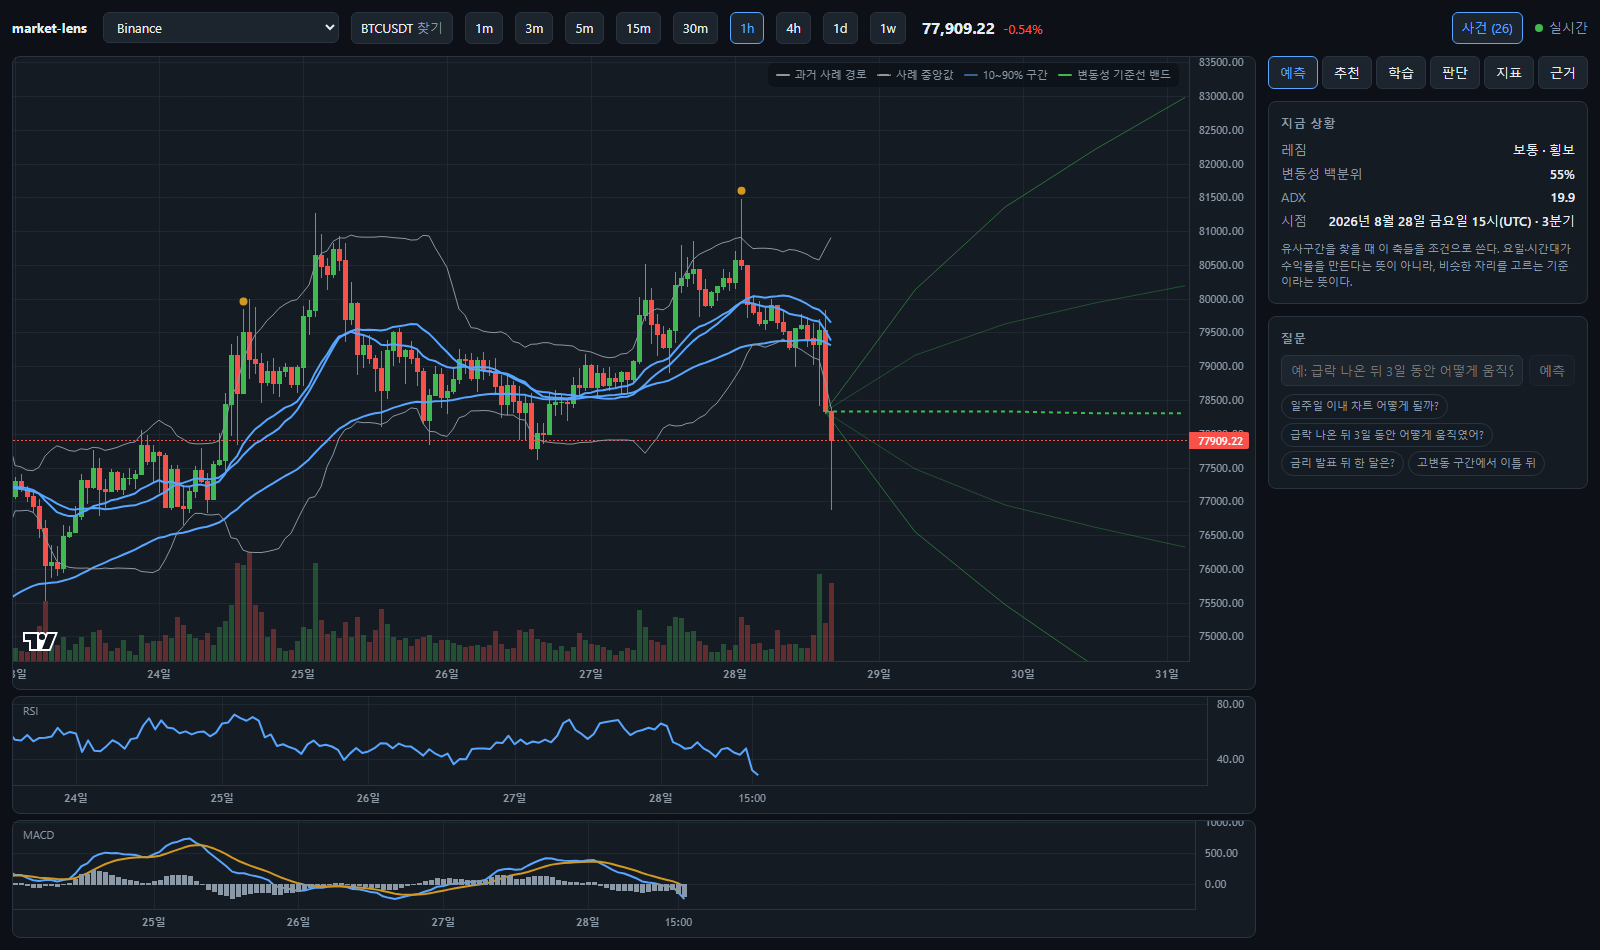
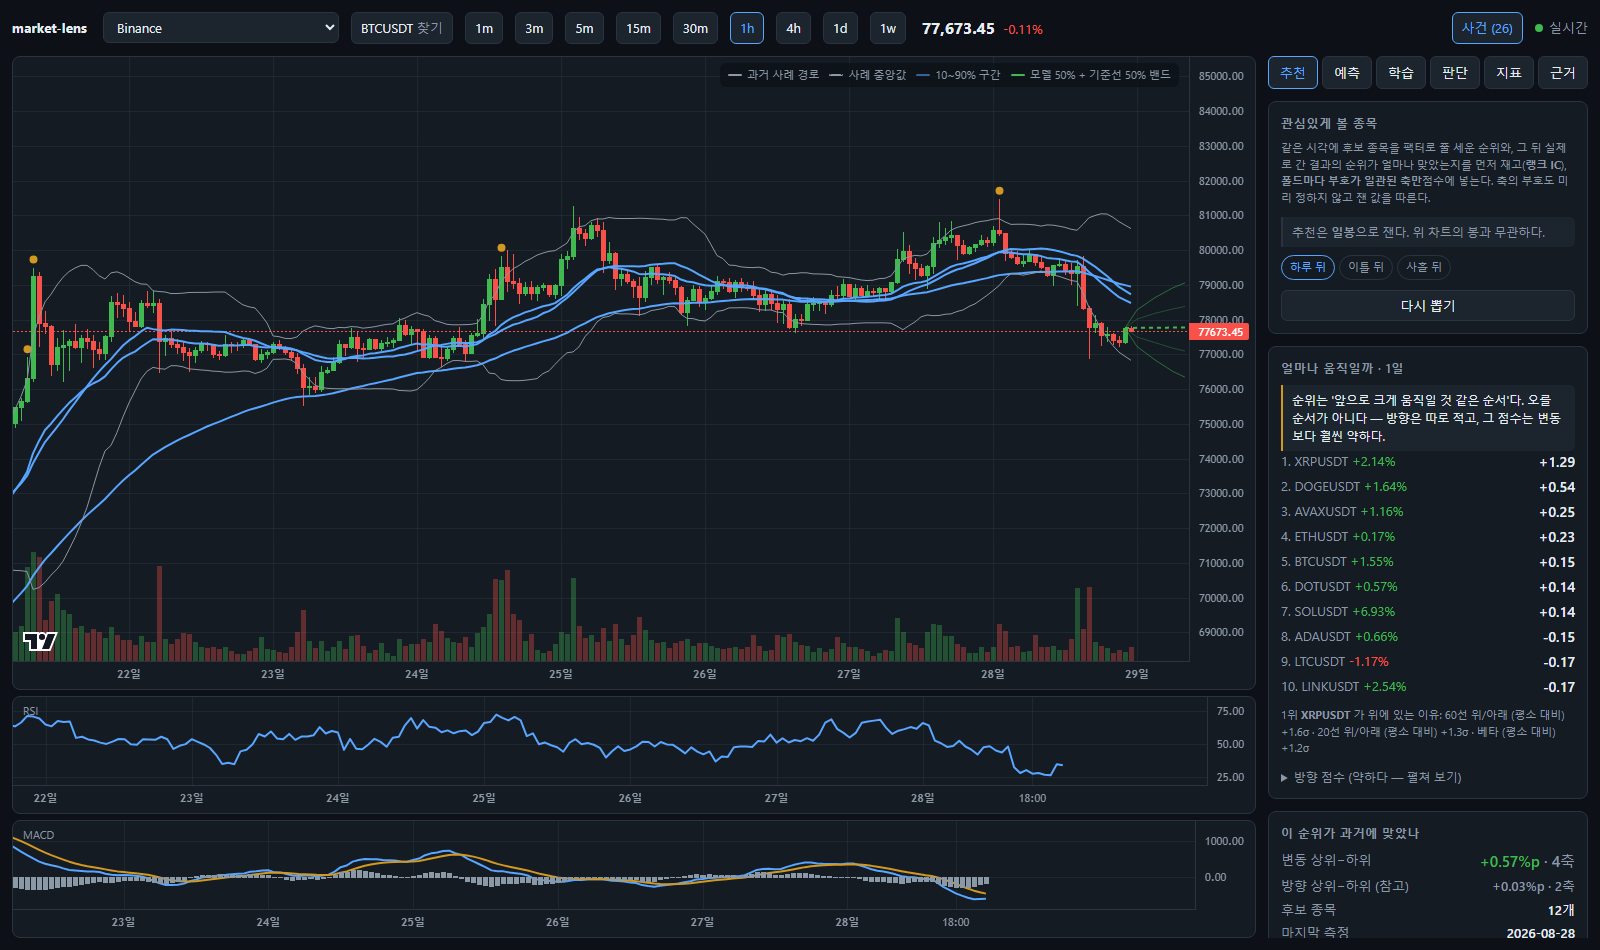
feat: 화면을 '얼마나 움직일까' 중심으로 다시 짠다
27,664판을 채점한 결과가 근거다 — 80% 밴드 82.2%, 방향 55.0%. 잘하는 것을
앞에 두고 못하는 것을 뒤에 둔다.

- 첫 탭이 추천(변동 순위)이고 기본값이다
- ForecastCard 와 학습 예측이 '예상 변동 폭'과 '밴드 실제 적중'부터 보여준다
- 방향은 '참고' 블록으로 내리고 흐리게 둔다. 지우지는 않는다 — 숨기는 것과
  작게 두는 것은 다르고, 쓸지 말지는 보는 사람이 정한다
- 추천 목록 행은 변동 점수 하나만. 방향은 접어 둔다
- 판단 탭도 폭이 먼저 오고 방향 투표가 뒤로 간다
- 각 문구에 잰 숫자를 같이 적는다

diff --git a/web/src/components/ScreenPanel.tsx b/web/src/components/ScreenPanel.tsx
@@ -102,7 +102,7 @@ export function ScreenPanel({ provider, providers, onPick, onProvider }: Props) 
 
       {result?.available && (
         <section className="card">
-          <h2>순위 · {horizon}일</h2>
+          <h2>얼마나 움직일까 · {horizon}일</h2>
           {/* 이 문장이 이 화면에서 제일 중요하다. 순위를 '오를 순서'로 읽으면 해롭다. */}
           <p className="note warn" style={{ marginTop: 0 }}>{result.note}</p>
           <div className="rows">
@@ -127,13 +127,9 @@ export function ScreenPanel({ provider, providers, onPick, onProvider }: Props) 
                     </span>
                   )}
                 </span>
-                <b>
-                  변동 {signed(item.move)}
-                  <span style={{ color: "var(--text-dim)" }}>
-                    {" "}
-                    · 방향 {signed(item.direction)}
-                  </span>
-                </b>
+                {/* 방향 점수는 여기 안 쓴다. 한 줄에 나란히 두면 같은 무게로 읽히는데,
+                    실제로는 변동이 +0.94%p 를 가르고 방향은 +0.03~0.65%p 다. */}
+                <b style={{ fontSize: 14 }}>{signed(item.move)}</b>
               </div>
             ))}
           </div>
@@ -145,6 +141,22 @@ export function ScreenPanel({ provider, providers, onPick, onProvider }: Props) 
                 .join(" · ")}
             </p>
           )}
+
+          {/* 방향은 접어 둔다. 지우지는 않는다 — 숨기는 것과 작게 두는 것은 다르고,
+              쓸지 말지는 보는 사람이 정한다. */}
+          <details style={{ marginTop: 8 }}>
+            <summary style={{ cursor: "pointer", color: "var(--text-dim)", fontSize: 12 }}>
+              방향 점수 (약하다 — 펼쳐 보기)
+            </summary>
+            <div className="rows" style={{ marginTop: 6, color: "var(--text-dim)" }}>
+              {result.items.map((item) => (
+                <div className="row" key={`dir-${item.symbol}`}>
+                  <span>{item.symbol}</span>
+                  <b>{signed(item.direction)}</b>
+                </div>
+              ))}
+            </div>
+          </details>
         </section>
       )}
 
@@ -152,28 +164,37 @@ export function ScreenPanel({ provider, providers, onPick, onProvider }: Props) 
         <section className="card">
           <h2>이 순위가 과거에 맞았나</h2>
           <div className="rows">
-            {(["move", "direction"] as const).map((kind) => {
-              const q = quality[kind];
-              const gap = q.topMinusBottomPct;
-              return (
-                <div className="row" key={kind}>
-                  <span>{kind === "move" ? "변동 상위−하위" : "방향 상위−하위"}</span>
-                  <b
-                    style={{
-                      color:
-                        gap === null || gap === undefined
-                          ? "var(--text-dim)"
-                          : gap > 0
-                            ? "var(--up)"
-                            : "var(--down)",
-                    }}
-                  >
-                    {gap === null || gap === undefined ? "—" : `${signed(gap)}%p`}
-                    <span style={{ color: "var(--text-dim)" }}> · {q.factors}축</span>
-                  </b>
-                </div>
-              );
-            })}
+            <div className="row">
+              <span>변동 상위−하위</span>
+              <b
+                style={{
+                  fontSize: 15,
+                  color:
+                    quality.move.topMinusBottomPct === null
+                    || quality.move.topMinusBottomPct === undefined
+                      ? "var(--text-dim)"
+                      : quality.move.topMinusBottomPct > 0
+                        ? "var(--up)"
+                        : "var(--down)",
+                }}
+              >
+                {quality.move.topMinusBottomPct === null
+                || quality.move.topMinusBottomPct === undefined
+                  ? "—"
+                  : `${signed(quality.move.topMinusBottomPct)}%p`}
+                <span style={{ color: "var(--text-dim)" }}> · {quality.move.factors}축</span>
+              </b>
+            </div>
+            <div className="row" style={{ color: "var(--text-dim)" }}>
+              <span>방향 상위−하위 (참고)</span>
+              <b>
+                {quality.direction.topMinusBottomPct === null
+                || quality.direction.topMinusBottomPct === undefined
+                  ? "—"
+                  : `${signed(quality.direction.topMinusBottomPct)}%p`}
+                <span> · {quality.direction.factors}축</span>
+              </b>
+            </div>
             <div className="row">
               <span>후보 종목</span>
               <b>{result?.breadth ?? 0}개</b>

diff --git a/web/src/components/Panels.tsx b/web/src/components/Panels.tsx
@@ -40,6 +40,11 @@ export function SignalCard({ signal }: { signal: Signal | null }) {
           </li>
         ))}
       </ul>
+      <p className="formula" style={{ marginTop: 10, marginBottom: 0 }}>
+        이건 <b>방향 투표</b>다. 27,664판을 채점해 보니 방향은 55.0% 로 동전던지기를
+        조금 넘는 정도였다 — 근거 문장을 읽는 용도지 이대로 따르라는 뜻이 아니다.
+        <b>위 칸의 변동 폭이 이 화면에서 믿을 만한 쪽이다.</b>
+      </p>
     </section>
   );
 }
@@ -47,6 +52,10 @@ export function SignalCard({ signal }: { signal: Signal | null }) {
 export function ForecastCard({ forecast }: { forecast: Forecast | null }) {
   if (!forecast) return null;
   const { stat, monteCarlo, ml } = forecast.layers;
+  // 80% 구간의 반폭을 현재가 대비 %로. "앞으로 이만큼 움직인다"를 한 숫자로 읽게.
+  const wide = stat.bands?.["80"];
+  const band80 =
+    wide && stat.mid ? ((wide.high - wide.low) / 2 / stat.mid) * 100 : null;
 
   return (
     <section className="card">
@@ -55,14 +64,14 @@ export function ForecastCard({ forecast }: { forecast: Forecast | null }) {
         <p className="formula">{stat.reason}</p>
       ) : (
         <div className="rows">
-          <div className="row">
-            <span>중심</span>
-            <b>
-              {price(stat.mid)} ({stat.expectedMovePct !== undefined
-                ? `${stat.expectedMovePct >= 0 ? "+" : ""}${stat.expectedMovePct.toFixed(2)}%`
-                : "—"})
-            </b>
-          </div>
+          {/* **폭을 맨 위에 둔다.** 이 도구가 실제로 맞히는 건 여기다 —
+              밴드 적중 82.2%. 중심(방향)은 55% 라 아래 참고 칸으로 내렸다. */}
+          {band80 !== null && (
+            <div className="row">
+              <span>예상 변동 폭 (80%)</span>
+              <b style={{ fontSize: 15 }}>±{band80.toFixed(2)}%</b>
+            </div>
+          )}
           {stat.bands &&
             Object.entries(stat.bands).map(([level, band]) => (
               <div className="row" key={level}>
@@ -80,23 +89,41 @@ export function ForecastCard({ forecast }: { forecast: Forecast | null }) {
               </b>
             </div>
           )}
-          {monteCarlo.available && (
-            <div className="row">
-              <span>상승 확률 (부트스트랩)</span>
-              <b>{percent(monteCarlo.probUp, 1)}</b>
-            </div>
-          )}
-          <div className="row">
-            <span>학습 모델</span>
-            <b>
-              {ml.available
-                ? `${ml.direction === 1 ? "상승" : ml.direction === -1 ? "하락" : "중립"} ${percent(ml.confidence, 0)}`
-                : "미학습"}
-            </b>
-          </div>
         </div>
       )}
+      {stat.available && (
+        <>
+          <div className="group-label">방향 (참고)</div>
+          <div className="rows" style={{ color: "var(--text-dim)" }}>
+            <div className="row">
+              <span>중심</span>
+              <b>
+                {price(stat.mid)} ({stat.expectedMovePct !== undefined
+                  ? `${stat.expectedMovePct >= 0 ? "+" : ""}${stat.expectedMovePct.toFixed(2)}%`
+                  : "—"})
+              </b>
+            </div>
+            {monteCarlo.available && (
+              <div className="row">
+                <span>상승 확률 (부트스트랩)</span>
+                <b>{percent(monteCarlo.probUp, 1)}</b>
+              </div>
+            )}
+            <div className="row">
+              <span>학습 모델</span>
+              <b>
+                {ml.available
+                  ? `${ml.direction === 1 ? "상승" : ml.direction === -1 ? "하락" : "중립"} ${percent(ml.confidence, 0)}`
+                  : "미학습"}
+              </b>
+            </div>
+          </div>
+        </>
+      )}
       <p className="formula" style={{ marginTop: 10, marginBottom: 0 }}>
+        <b>폭이 이 도구가 맞히는 것이다.</b> 27,664판을 채점해 보니 80% 밴드는 82.2% 로
+        들어맞았고 방향은 55.0% 였다 — 동전던지기보다 조금 나은 정도라 방향은 참고로만 둔다.
+        <br />
         구간은 로그수익률 표준편차를 √N 으로 늘린 것이다. 변동성이 뭉치는 실제 시장에서는
         낙관적인 하한이라 ATR 범위와 같이 본다.
       </p>

diff --git a/web/src/components/LearnPanel.tsx b/web/src/components/LearnPanel.tsx
@@ -35,6 +35,16 @@ export function LearnPanel({ learned, busy, error, note, skipped, onTrain }: Pro
   const [horizon, setHorizon] = useState(10);
   const report = learned?.report;
 
+  // 지평에서의 80% 밴드 반폭을 현재가 대비 %로. "이만큼 움직인다"를 한 숫자로.
+  const low = learned?.bands?.p10?.at(-1)?.value;
+  const high = learned?.bands?.p90?.at(-1)?.value;
+  const band =
+    low !== undefined && high !== undefined && learned?.last
+      ? ((high - low) / 2 / learned.last) * 100
+      : null;
+  // 이 모델의 밴드가 검증에서 실제로 몇 %를 담았나. 목표는 80%.
+  const coverage = report?.coverage?.[`${report?.horizon}:80`];
+
   return (
     <>
       <section className="card">
@@ -85,16 +95,41 @@ export function LearnPanel({ learned, busy, error, note, skipped, onTrain }: Pro
         <section className="card">
           <h2>학습 예측</h2>
           <div className="rows">
+            {/* **폭이 먼저다.** 채점해 보면 밴드는 82% 로 맞고 방향은 55% 다.
+                방향을 위에 두면 이 화면이 실제보다 잘하는 것처럼 읽힌다. */}
+            {band !== null && (
+              <div className="row">
+                <span>{learned.horizon}봉 뒤 변동 폭 (80%)</span>
+                <b style={{ fontSize: 15 }}>±{band.toFixed(2)}%</b>
+              </div>
+            )}
+            {coverage !== undefined && (
+              <div className="row">
+                <span>이 모델의 밴드 실제 적중</span>
+                <b style={{ color: coverage >= 0.75 ? "var(--up)" : "var(--warn)" }}>
+                  {pct(coverage, 1)}
+                  <span style={{ color: "var(--text-dim)" }}> · 목표 80%</span>
+                </b>
+              </div>
+            )}
+            <div className="row">
+              <span>현재 변동성 (ATR)</span>
+              <b>{learned.atrPct}%</b>
+            </div>
             <div className="row">
               <span>쓰고 있는 것</span>
               <b style={{ color: learned.source === "blend" ? "var(--up)" : "var(--warn)" }}>
                 {learned.sourceLabel}
               </b>
             </div>
+          </div>
+
+          <div className="group-label">방향 (참고 · 55%)</div>
+          <div className="rows" style={{ color: "var(--text-dim)" }}>
             <div className="row">
               <span>{learned.horizon}봉 뒤 중앙</span>
               <b>
-                {learned.expectedMovePct !== undefined
+                {learned.expectedMovePct !== undefined && learned.expectedMovePct !== null
                   ? `${learned.expectedMovePct >= 0 ? "+" : ""}${learned.expectedMovePct.toFixed(2)}%`
                   : "—"}
               </b>
@@ -102,10 +137,6 @@ export function LearnPanel({ learned, busy, error, note, skipped, onTrain }: Pro
             <div className="row">
               <span>상승 비중</span>
               <b>{pct(learned.probUp, 0)}</b>
-            </div>
-            <div className="row">
-              <span>현재 변동성 (ATR)</span>
-              <b>{learned.atrPct}%</b>
             </div>
             {learned.direction !== undefined && !learned.abstain && (
               <div className="row">

diff --git a/web/src/App.tsx b/web/src/App.tsx
@@ -37,9 +37,12 @@ const CHART_BARS = 600;
 
 type Tab = "signal" | "predict" | "screen" | "learn" | "indicators" | "research";
 
+// **되는 것부터 보이게 둔다.** 이 도구가 실제로 잘하는 건 "얼마나 움직일까"(밴드
+// 적중 82.2%, 추천의 변동 점수)지 "어느 쪽으로 갈까"(방향 55%)가 아니다.
+// 8시간 · 27,664판으로 잰 결과다 — docs/STUDY.md.
 const TABS: Array<{ key: Tab; label: string }> = [
-  { key: "predict", label: "예측" },
   { key: "screen", label: "추천" },
+  { key: "predict", label: "예측" },
   { key: "learn", label: "학습" },
   { key: "signal", label: "판단" },
   { key: "indicators", label: "지표" },
@@ -57,7 +60,7 @@ export default function App() {
   const [symbol, setSymbol] = useState("BTCUSDT");
   const [timeframe, setTimeframe] = useState("1h");
   const [pickerOpen, setPickerOpen] = useState(false);
-  const [tab, setTab] = useState<Tab>("predict");
+  const [tab, setTab] = useState<Tab>("screen");
 
   const [forecast, setForecast] = useState<Forecast | null>(null);
   const [patterns, setPatterns] = useState<PatternHit[]>([]);
@@ -373,8 +376,10 @@ export default function App() {
 
         {tab === "signal" && (
           <>
-            <SignalCard signal={live.signal} />
+            {/* 폭이 먼저, 방향 투표가 나중. 이 순서가 잰 결과와 같다 —
+                밴드 82.2%, 방향 55.0%. */}
             <ForecastCard forecast={forecast} />
+            <SignalCard signal={live.signal} />
             <PatternCard patterns={patterns} />
           </>
         )}

diff --git a/CLAUDE.md b/CLAUDE.md
@@ -349,6 +349,22 @@
 - ⚠ **헤더 종목 버튼 안에 `<b>` 를 쓰지 말 것.** `web/scripts/shot.mjs` 가
   `.topbar b` 로 시세 도착을 판정한다. 넣으면 스크린샷 전부가 빈 차트로 찍힌다.
 
+## 화면은 폭 중심으로 짠다
+
+27,664판을 채점한 결과가 이 배치의 근거다 — **80% 밴드 82.2%, 방향 55.0%.**
+잘하는 것을 앞에, 못하는 것을 뒤에 둔다. 순서를 바꾸려면 숫자부터 다시 재야 한다.
+
+- **첫 탭은 추천**(변동 순위)이고 기본값이다. 예측·학습·판단이 그 뒤다.
+- 모든 카드가 **폭을 맨 위에** 둔다: `ForecastCard` 는 `예상 변동 폭(80%)`,
+  `LearnPanel` 의 학습 예측은 `n봉 뒤 변동 폭` 과 `밴드 실제 적중`.
+- 방향은 **`방향 (참고)` 블록으로 내리고 `var(--text-dim)`** 을 입힌다. 지우지 않는다 —
+  숨기는 것과 작게 두는 것은 다르고, 쓸지 말지는 보는 사람이 정한다.
+- 추천 목록의 행에는 **변동 점수 하나만** 쓴다. 방향은 `<details>` 로 접는다.
+  한 줄에 나란히 두면 같은 무게로 읽히는데, 실제로는 변동이 +0.94%p 를 가르고
+  방향은 +0.03~0.65%p 다.
+- **성적을 문구에 같이 적는다.** "폭이 이 도구가 맞히는 것이다 — 밴드 82.2%, 방향
+  55.0%" 처럼. 숫자 없이 "믿지 말 것"만 쓰면 읽는 사람이 얼마나 안 믿을지 모른다.
+
 ## 화면에서 지킬 것
 
 - **예측선은 세로축 계산에 끼지 않는다**(`autoscaleInfoProvider: () => null`).

diff --git a/README.md b/README.md
@@ -79,6 +79,10 @@ npm run dev
   국내주식 4,303 · 미국주식 6,713)은 눌러서 훑을 수도 있다
 - **종목 추천** — 오늘 관심있게 볼 종목을 1/2/3일 지평으로 줄 세운다. 순위를 만들기
   전에 그 순위가 과거에 맞았는지를 먼저 재고, 잰 것만 쓴다
+
+**화면은 "얼마나 움직일까" 를 중심으로 짜여 있다.** 27,664판을 채점해 보니 80% 밴드는
+82.2% 로 들어맞았고 방향은 55.0% 였다. 그래서 첫 탭이 추천(변동 순위)이고, 모든 카드가
+폭을 위에 두고 방향은 "참고" 로 접어 둔다 — 지우지는 않는다. 쓸지 말지는 보는 사람이 정한다.
 - **매일 스스로 학습** — 챔피언을 새 데이터로 다시 굽고, 설정을 하나만 흔든 도전자와
   겨뤄 **마진 이상 이길 때만** 갈아끼운다. 결과는 [docs/LEARNING.md](docs/LEARNING.md)
   에 매일 쌓인다 — 진 날도 그대로 남는다
